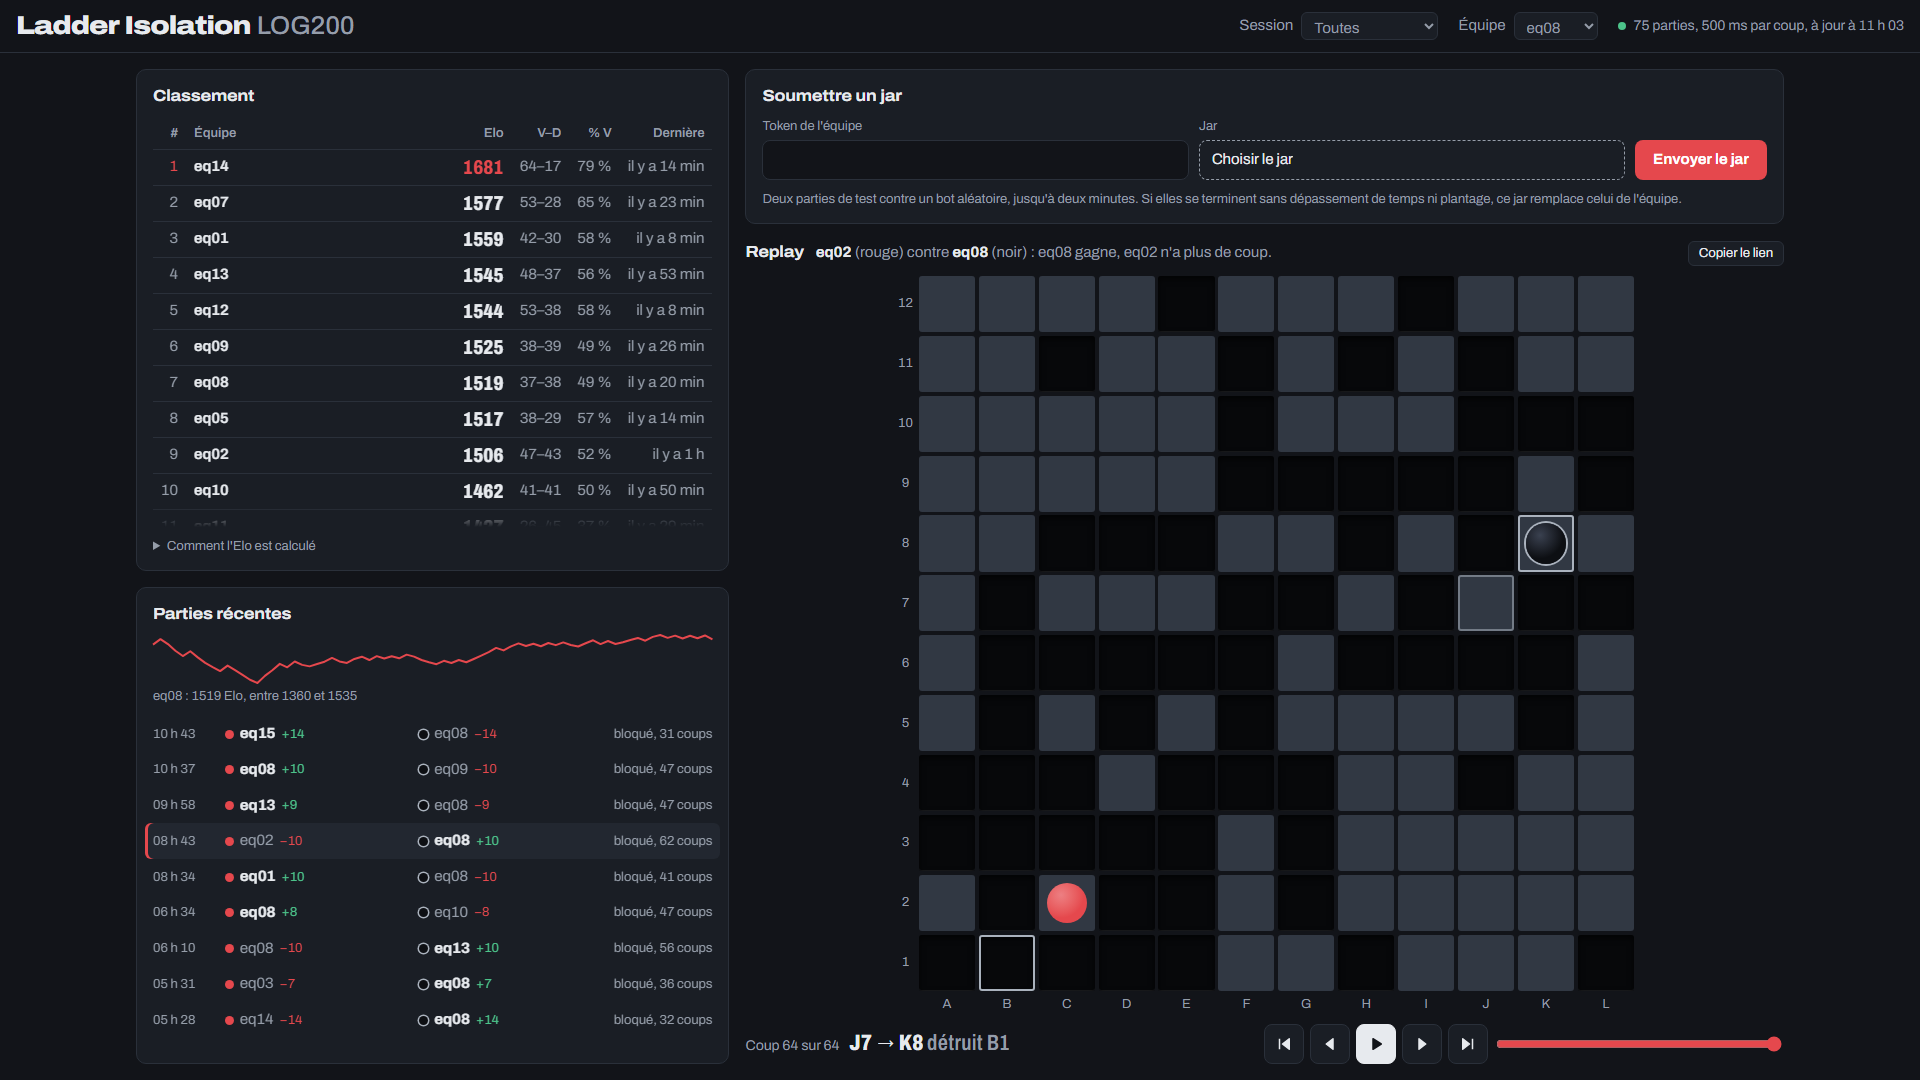
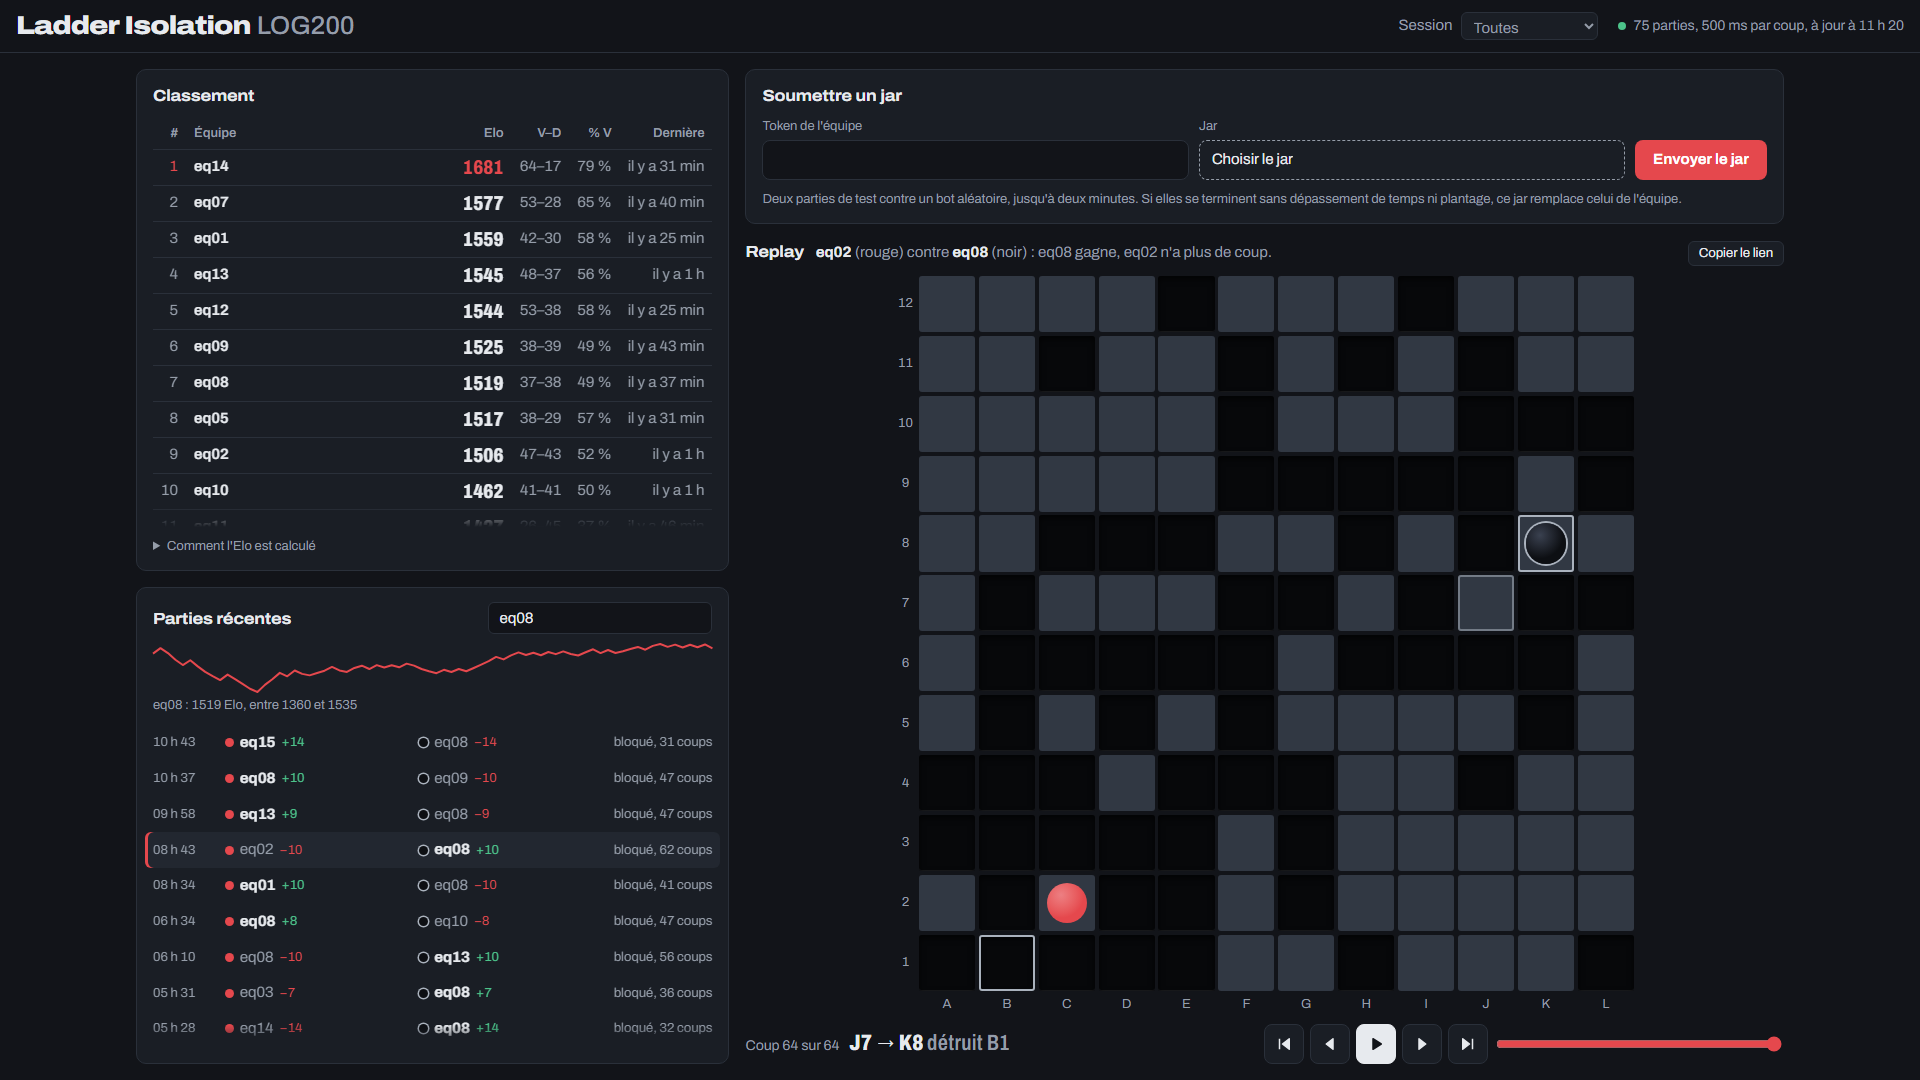
feat: add team search functionality and enhance UI for recent games section

diff --git a/web/app.js b/web/app.js
@@ -119,7 +119,8 @@ function fillSelect(select, values, wanted = select.value) {
 function renderSessions(first) {
     fillSelect($('session'), sessions(games), first ? SESSION : $('session').value)
     const teams = [...new Set(games.flatMap((g) => [g.red.team, g.black.team]))].sort()
-    fillSelect($('team'), teams, first ? TEAM : $('team').value)
+    $('teams').replaceChildren(...teams.map((t) => el('option', { value: t })))
+    if (first) $('team').value = TEAM
 }
 
 function setParam(key, value) {
@@ -129,12 +130,13 @@ function setParam(key, value) {
     history.replaceState(null, '', url)
 }
 
+// Recherche d'équipe : sous-chaîne, sans tenir compte de la casse.
+const query = () => $('team').value.trim().toLowerCase()
+const matches = (team) => team.toLowerCase().includes(query())
+
 function selectedGames() {
     const s = $('session').value
-    const t = $('team').value
-    return games.filter(
-        (g) => (s === GLOBAL || g.session === s) && (t === GLOBAL || g.red.team === t || g.black.team === t)
-    )
+    return games.filter((g) => (s === GLOBAL || g.session === s) && (matches(g.red.team) || matches(g.black.team)))
 }
 
 function render() {
@@ -185,10 +187,12 @@ function renderRanking(ratings) {
 }
 
 function renderChart(ratings) {
-    const team = $('team').value
-    const r = ratings.find((r) => r.team === team)
+    // Courbe pour une seule équipe : nom exact, sinon seule équipe qui correspond à la recherche.
+    const found = query() ? ratings.filter((r) => matches(r.team)) : []
+    const r = found.find((r) => r.team.toLowerCase() === query()) ?? (found.length === 1 ? found[0] : null)
     $('elo-chart').hidden = !r
     if (!r) return
+    const team = r.team
     const values = [START, ...r.history.map((h) => h.rating)]
     const min = Math.min(...values)
     const max = Math.max(...values)
@@ -364,9 +368,12 @@ async function share() {
     setTimeout(() => ($('share').textContent = 'Copier le lien'), 2000)
 }
 
-for (const id of ['session', 'team']) {
-    $(id).addEventListener('change', () => {
-        setParam(id, $(id).value)
+for (const [id, event] of [
+    ['session', 'change'],
+    ['team', 'input'],
+]) {
+    $(id).addEventListener(event, () => {
+        setParam(id, $(id).value.trim())
         replay.pinned = false
         render()
     })

diff --git a/web/index.html b/web/index.html
@@ -24,10 +24,6 @@
                 <span>Session</span>
                 <select id="session"></select>
             </label>
-            <label class="session">
-                <span>Équipe</span>
-                <select id="team"></select>
-            </label>
             <p class="status" role="status">
                 <span id="live" class="live" aria-hidden="true"></span>
                 <span id="status">Chargement des parties…</span>
@@ -140,7 +136,12 @@
         </section>
 
         <section class="panel games" aria-labelledby="games-title">
-            <h2 id="games-title">Parties récentes</h2>
+            <div class="games-head">
+                <h2 id="games-title">Parties récentes</h2>
+                <input id="team" class="search" type="search" list="teams" placeholder="Rechercher une équipe"
+                    aria-label="Rechercher une équipe" autocomplete="off" spellcheck="false" />
+                <datalist id="teams"></datalist>
+            </div>
             <figure id="elo-chart" class="elo-chart" hidden>
                 <svg id="elo-line" role="img" preserveAspectRatio="none"></svg>
                 <figcaption id="elo-caption"></figcaption>

diff --git a/web/style.css b/web/style.css
@@ -780,6 +780,25 @@ input[type='range'] {
     color: var(--red);
 }
 
+.games-head {
+    display: flex;
+    flex-wrap: wrap;
+    align-items: center;
+    justify-content: space-between;
+    gap: 6px 12px;
+    margin-bottom: 10px;
+}
+
+.search {
+    flex: 0 1 14rem;
+    min-width: 0;
+    height: 2rem;
+    padding: 0 10px;
+    background: var(--paper);
+    border: 1px solid var(--line);
+    border-radius: 6px;
+}
+
 .elo-chart {
     margin: 0 0 10px;
 }

diff --git a/README.md b/README.md
@@ -4,7 +4,7 @@ Live leaderboard (Elo, game history, replays) for the Isolation lab of LOG200.
 
 ![Leaderboard page: Elo ranking, recent games and the replay of one game](docs/images/leaderboard.png)
 
-Pick a team to see only its games and its Elo over time. The address follows the choices (`?team=eq08`, `?game=<id>`), so a filtered view or a single game can be shared as a link ("Copier le lien" above the replay).
+Search for a team above the recent games to see only its games and, once a single team matches, its Elo over time. The address follows the choices (`?team=eq08`, `?game=<id>`), so a filtered view or a single game can be shared as a link ("Copier le lien" above the replay).
 
 ![Leaderboard filtered on one team: Elo curve above its recent games, and a shared game in the replay](docs/images/leaderboard-team.png)
 
